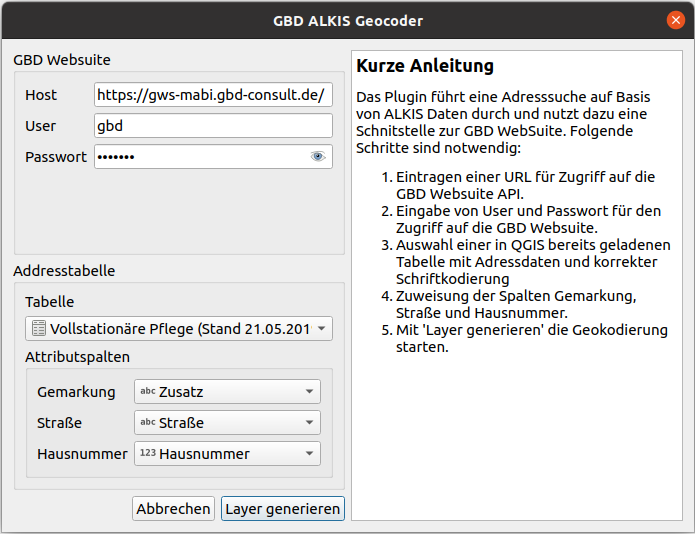
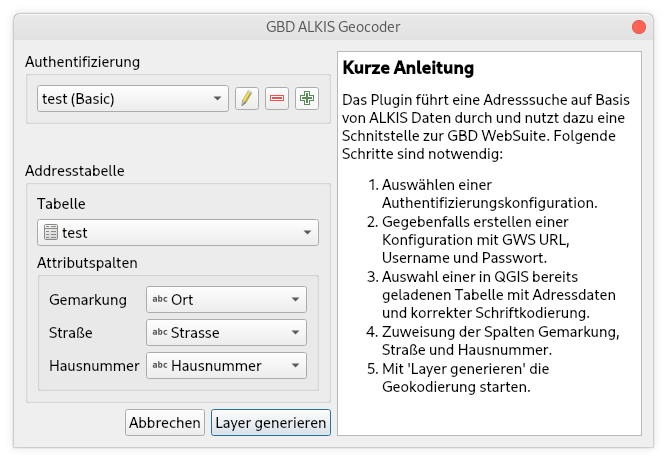
update help

diff --git a/alkis_geocoder/help.html b/alkis_geocoder/help.html
@@ -1,14 +1,14 @@
 <html>
 <body>
-<h3>Kurze Anleitung</h3>
 
+<h3>Kurze Anleitung</h3>
 Das Plugin führt eine Adresssuche auf Basis von ALKIS Daten durch und nutzt
 dazu eine Schnitstelle zur GBD WebSuite. Folgende Schritte sind notwendig:
 <ol>
-<li>Eintragen einer URL für Zugriff auf die GBD Websuite API.</li>
-<li>Eingabe von User und Passwort für den Zugriff auf die GBD Websuite.</li>
+<li>Auswählen einer Authentifizierungskonfiguration.</li>
+<li>Gegebenfalls erstellen einer Konfiguration mit GWS URL, Username und Passwort.</li>
 <li>Auswahl einer in QGIS bereits geladenen Tabelle mit Adressdaten und korrekter
-Schriftkodierung</li>
+Schriftkodierung.</li>
 <li>Zuweisung der Spalten Gemarkung, Straße und Hausnummer.</li>
 <li>Mit 'Layer generieren' die Geokodierung starten.</li>
 </ol>

diff --git a/README.md b/README.md
@@ -24,9 +24,18 @@ Wenn Sie das GBD ALKIS Geocoder Plugin in QGIS geladen und geöffnet haben, find
 
 <img src="/images/geocoder_blank.png" width="500">
 
-Zuerst müssen Sie eine URL eintragen die Ihnen Zugriff auf die GBD Websuite API ermöglicht.
+Da das Plugin das [Authentifizierungssystem 🔐](https://docs.qgis.org/3.10/de/docs/user_manual/auth_system/auth_overview.html) von QGIS verwendet, kann es sein, dass beim erstmaligen starten ein Hauptkennwort vergeben werden muss.
+<img src="./images/auth_maganger.png" width="500">
+Dies ist nur der Fall, wenn das Authentifizierungssystem nicht bereits für andere Zugangsdaten verwendet wurde.
 
-Wenn Sie die URL eingetragen haben, schaut das Plugin ob für diese eine Authentifizierung per Benutzer und Passwort nötig ist. Falls ja, tragen Sie einen für diese URL verifizierten Benutzer mit Passwort ein. Dann muss die Auswahl einer in QGIS bereits geladenen Tabelle (z.B. Excel, CSV oder OpenOffice Tabelle (.ods)) mit Adressdaten erfolgen. Ort, Straße und Hausnummer müssen in einer eigenen Spalte abgelegt sein.
+Anschließend kann über das grüne Plus Symbol ein neuer Authentifizierungsdatensatz erstellt werden.
+Sie können hier aber auch ihre bereits vorhandene GWS-Verbindung auswählen.
+
+Wichtig ist, dass Sie als Authentifizierungsart *Einfache Authentifizierung* auswählen und bei Quelle die URL der GWS-Instanz angeben.
+<img src="./images/auth_config.png">
+
+
+Anschließend muss die Auswahl einer in QGIS bereits geladenen Tabelle (z.B. Excel, CSV oder OpenOffice Tabelle (.ods)) mit Adressdaten erfolgen. Ort, Straße und Hausnummer müssen in einer eigenen Spalte abgelegt sein.
 
 Jetzt weisen Sie die Spalten Gemarkung (Ort), Straße und Hausnummer manuell zu. Über den Button 'Layer generieren' starten Sie die Geokodierung. Ein neuer temporärer Punktlayer mit lat und lon werten wird erstellt und direkt in das QGIS Layerfenster geladen. Die zugewiesenen Punktkoordinaten werden in zwei neue Spalten zu den Werte der Ausgangstabelle ergänzt.
 
